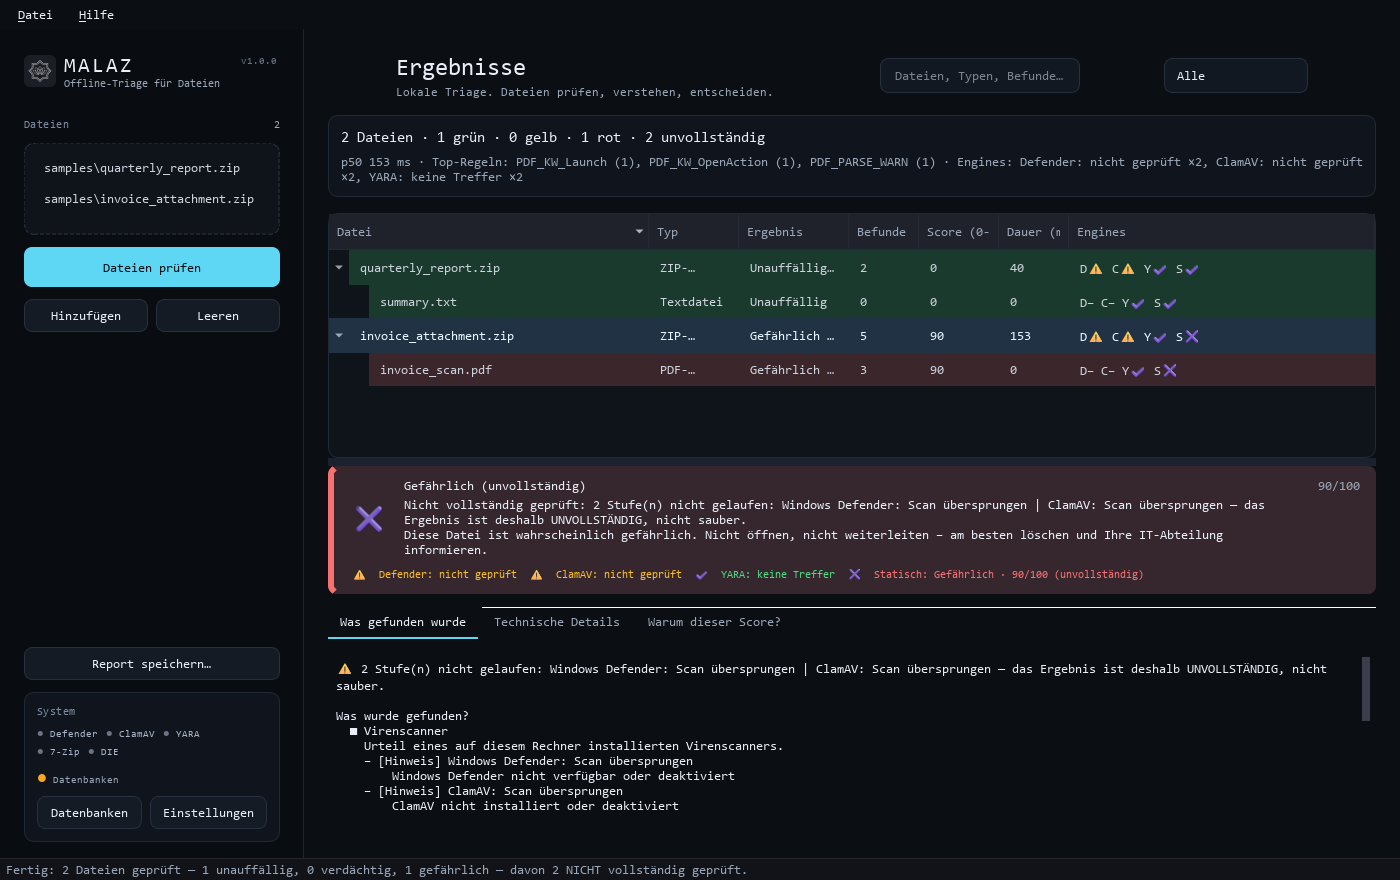
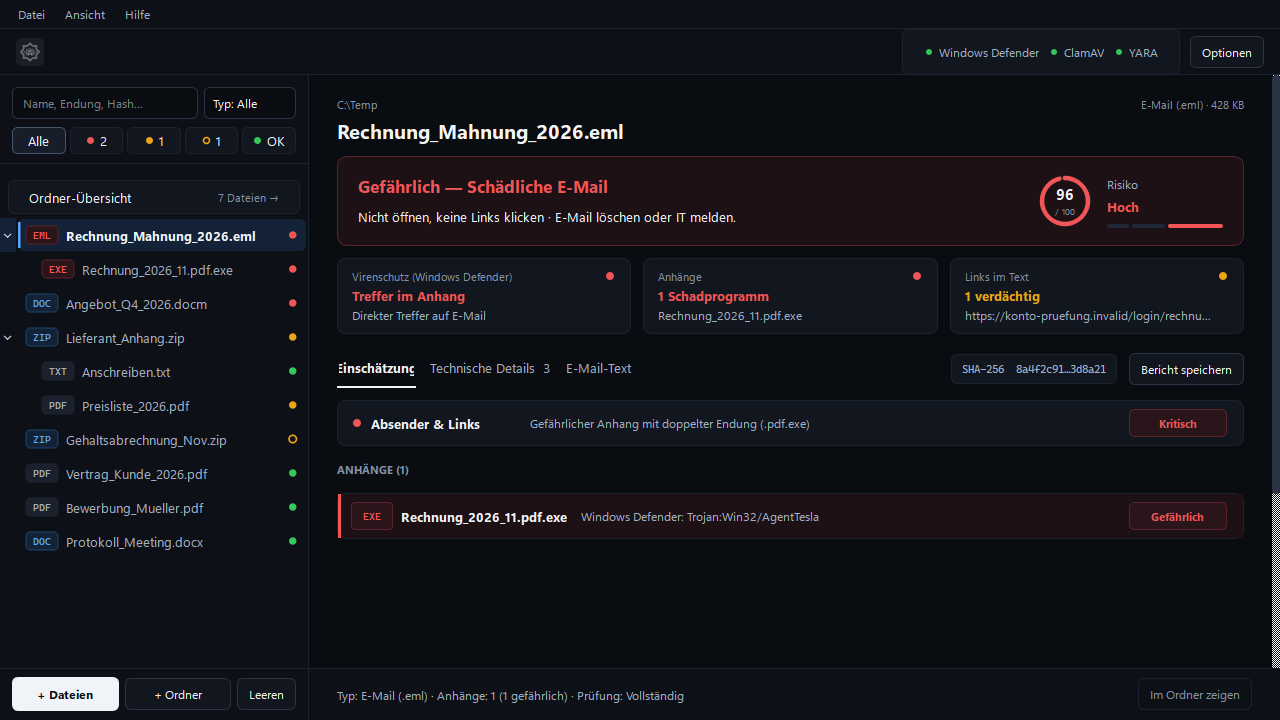
docs(readme): refresh v1.1.0 showcase screenshots, demo GIF, and GDPR privacy framing

diff --git a/README.md b/README.md
@@ -2,21 +2,37 @@
 
 # Malaz
 
-Native, **offline-by-default** desktop file security triage for Windows 10/11. Malaz inspects suspicious documents, archives, executables, scripts, images, and emails locally, with zero cloud uploads, zero telemetry, and full source availability under **[GPL-3.0-or-later](LICENSE)** (third-party notices and SBOM in [THIRD_PARTY_NOTICES.md](THIRD_PARTY_NOTICES.md)).
+**100% local, offline-by-default** desktop file security triage for Windows 10/11. Malaz inspects suspicious documents, emails, archives, executables, scripts, and images directly on your own PC — **zero cloud uploads, zero telemetry, zero accounts**, and full source availability under **[GPL-3.0-or-later](LICENSE)** (third-party notices and SBOM in [THIRD_PARTY_NOTICES.md](THIRD_PARTY_NOTICES.md)).
 
 <br clear="left" />
 
-Network access never occurs during standard scans; optional signature updates and opt-in email checks run only when explicitly enabled by the user (see [docs/SECURITY_MODEL.md](docs/SECURITY_MODEL.md)).
+> **Your files never leave your computer (GDPR / Privacy by Design):** Invoices, HR applications, contracts, and customer emails often contain sensitive personal or confidential business data. Uploading them to public online virus scanners exposes file contents to third-party servers. Malaz analyzes everything locally on your machine — network access never occurs during standard scans, and optional signature/feed updates or DNS checks run **only** when explicitly enabled by the user ([docs/SECURITY_MODEL.md](docs/SECURITY_MODEL.md)).
 
-![Malaz Desktop Triage Interface](docs/assets/malaz-ui.png)
+![Malaz v1.1.0 Desktop Triage Interface](docs/assets/malaz-ui.png)
 
-> **UI Language Note:** In `v1.0.0`, the desktop GUI and generated HTML/PDF triage reports use German labels and plain-language explanations; English UI localization is planned for an upcoming release. All CLI flags, JSON/CSV schema keys, source code, and repository documentation are in English.
+> **UI Language Note:** In `v1.1.0`, the desktop GUI ("Klare Fläche v2" with Dark, Light, and System themes) and generated HTML/PDF triage reports use German labels and plain-language explanations; English UI localization is planned for an upcoming release. All CLI flags, JSON/CSV schema keys, source code, and repository documentation are in English.
+
+---
+
+## See Malaz in Action (`v1.1.0`)
+
+![Malaz v1.1.0 Walkthrough: Folder Overview, Phishing Email, Office Macro, Honest Unchecked ZIP, Offline Options, and Light Theme](docs/assets/malaz-demo.gif)
+
+| Folder Overview & Action List | Light Theme (Dark / Light / System) | Offline-by-Default Options |
+| :---: | :---: | :---: |
+| ![Malaz Folder Overview](docs/assets/malaz-overview.png) | ![Malaz Light Theme](docs/assets/malaz-light.png) | ![Malaz Offline Options](docs/assets/malaz-options.png) |
+| *Batch summary with 4 clear status KPIs (`Gefährlich`, `Verdächtig`, `Ungeprüft`, `Unauffällig`)* | *Token-driven Light & Dark themes with automatic High-DPI & screen scaling* | *Every network feature is opt-in and OFF by default (`Standardmäßig komplett offline`)* |
 
 ---
 
 ## Why Malaz?
 
-Most non-analysts facing a suspicious email attachment, USB file, or download have only two choices: upload potentially confidential files to a cloud sandbox, or rely on a single silent antivirus check. Malaz combines **format-aware static inspection** with **local multi-engine scanning** in one portable Windows application and explains every finding in plain language with a clear traffic-light verdict (`GREEN` / `YELLOW` / `RED`).
+When a suspicious invoice, job application, USB file, or email attachment lands on your desk, you usually face an uncomfortable trade-off:
+
+1. **Upload it to an online scanner** — risking a **GDPR / confidentiality breach** because confidential documents leave your control and may be stored or shared with third parties.
+2. **Rely on a single silent antivirus check** — which often misses brand-new phishing links, disguised `.pdf.exe` attachments, malicious Office macros, or quietly skips password-protected archives without warning you.
+
+**Malaz closes this gap locally:** it combines **format-aware static inspection** with **local multi-engine scanning** (Windows Defender, ClamAV, and YARA) in one portable Windows app, and translates technical indicators into plain-language traffic-light verdicts (`GREEN` / `YELLOW` / `RED` — plus an explicit `UNCHECKED` state whenever anything could not be inspected).
 
 ## Key Capabilities
 
@@ -28,8 +44,8 @@ Most non-analysts facing a suspicious email attachment, USB file, or download ha
   - **Images & Media:** Magic-byte vs. extension mismatch (`GEN_FORMAT_MISMATCH`), appended payloads past PNG `IEND` / JPEG `EOI`, HEIC/AVIF box bounds, and EXIF inspection.
   - **Archives & Containers:** Recursive bounded inspection of `ZIP`, `TAR`/`GZIP`/`BZIP2`/`XZ`, and (via local 7-Zip CLI) `7z`, `RAR`, `CAB`, and `ISO`, hardened against Zip-Slip, junctions, and decompression bombs.
   - **Generic & Scripts:** Vectorized Shannon entropy, bundled YARA rules (`rules/yara/malaz_*.yar`), local SHA-256/URL/domain/CIDR blocklists, `.lnk` shortcut target/argument parsing, `.rtf`, and `.swf`.
-- **Multi-Engine Local Orchestration:** Runs on-demand **Windows Defender** (`MpCmdRun.exe`), **ClamAV** (`clamdscan` / `clamscan`), and **YARA** side by side with per-engine status chips (`clean` / `threat` / `unchecked`).
-- **Completeness Invariant (*"Unchecked is Never Clean"*):** Missing parsers, skipped stages, password-protected archives, size caps, or timeouts never silently pass as `GREEN`; incomplete inspections surface explicitly in the verdict badge, detail pane, CLI exit code, and exported reports.
+- **Multi-Engine Local Orchestration:** Runs on-demand **Windows Defender** (`MpCmdRun.exe`), **ClamAV** (`clamdscan` / `clamscan`), and **YARA** side by side with per-engine status cards (`clean` / `threat` / `unchecked`).
+- **Completeness Invariant (*"Unchecked is Never Clean"*):** Missing parsers, skipped stages, password-protected archives, size caps, or timeouts never silently pass as `GREEN`; incomplete inspections surface explicitly in the verdict badge, folder overview, detail pane, CLI exit code, and exported reports.
 - **Large Files up to 2 GB:** Files up to 64 MB are buffered in memory; files between 64 MB and 2 GB stream in 8 MB chunks for SHA-256, entropy, YARA, and raw-byte IOCs while passing file paths to ZIP/PDF/AV stages and an 8 MB prefix to deep parsers.
 - **Self-Contained Reports:** Exports standalone HTML5 and PDF reports (zero JavaScript, zero external requests, strict HTML/CSV/Bidi sanitization) plus JSON and CSV batch summaries.
 
@@ -39,7 +55,7 @@ Most non-analysts facing a suspicious email attachment, USB file, or download ha
 
 ### Option 1: Portable Standalone Release (No Python Required)
 
-1. Download `Malaz-1.0.0.zip`, `SHA256SUMS-1.0.0.txt`, `SHA256SUMS-1.0.0.txt.asc`, and [docs/RELEASE-SIGNING-KEY.asc](docs/RELEASE-SIGNING-KEY.asc) from Releases.
+1. Download `Malaz-1.1.0.zip`, `SHA256SUMS-1.1.0.txt`, `SHA256SUMS-1.1.0.txt.asc`, and [docs/RELEASE-SIGNING-KEY.asc](docs/RELEASE-SIGNING-KEY.asc) from [Releases](https://github.com/TulparLemon/Malaz/releases/latest).
 2. Verify the OpenPGP signature and SHA-256 checksum ([docs/VERIFYING_RELEASES.md](docs/VERIFYING_RELEASES.md)).
 3. Extract the archive and run `Malaz.exe` directly from the extracted folder (no installer, no administrator privileges required).
 
@@ -98,7 +114,7 @@ python -m pytest -q --basetemp=.pytest-tmp\local
 
 ## License & Rule Sources
 
-Malaz is free software licensed under **[GPL-3.0-or-later](LICENSE)**. See [THIRD_PARTY_NOTICES.md](THIRD_PARTY_NOTICES.md) for the complete runtime dependency inventory (SBOM) and LGPLv3 §3 / GPLv3 §6 notices.
+Malaz is free software licensed under **[GPL-3.0-or-later](LICENSE)**. See [THIRD_PARTY_NOTICES.md](THIRD_PARTY_NOTICES.md) for the complete runtime dependency inventory (SBOM) and LGPLv3 § 3 / GPLv3 § 6 notices.
 
 Third-party threat feeds and external YARA rule collections ([ReversingLabs YARA](https://github.com/reversinglabs/reversinglabs-yara-rules) under MIT, [Neo23x0 signature-base](https://github.com/Neo23x0/signature-base) under DRL 1.1 with per-rule licenses) are **not bundled** in this repository or in binary releases; users can fetch them locally on an explicit opt-in basis ([docs/USAGE.md](docs/USAGE.md)).
 
